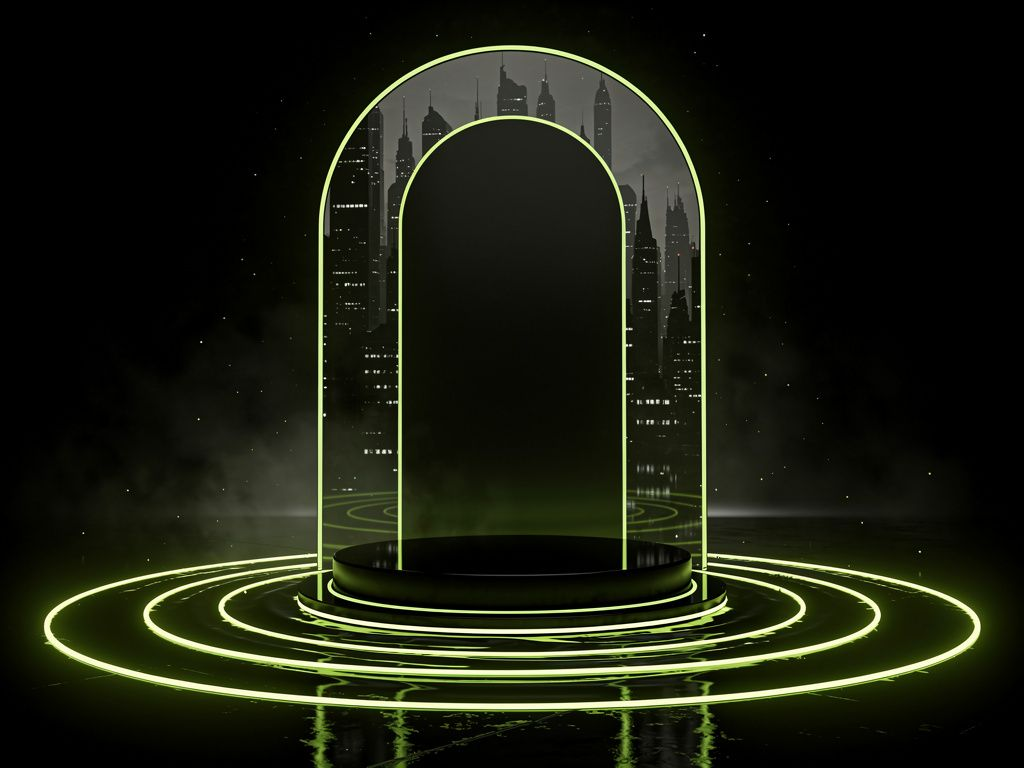
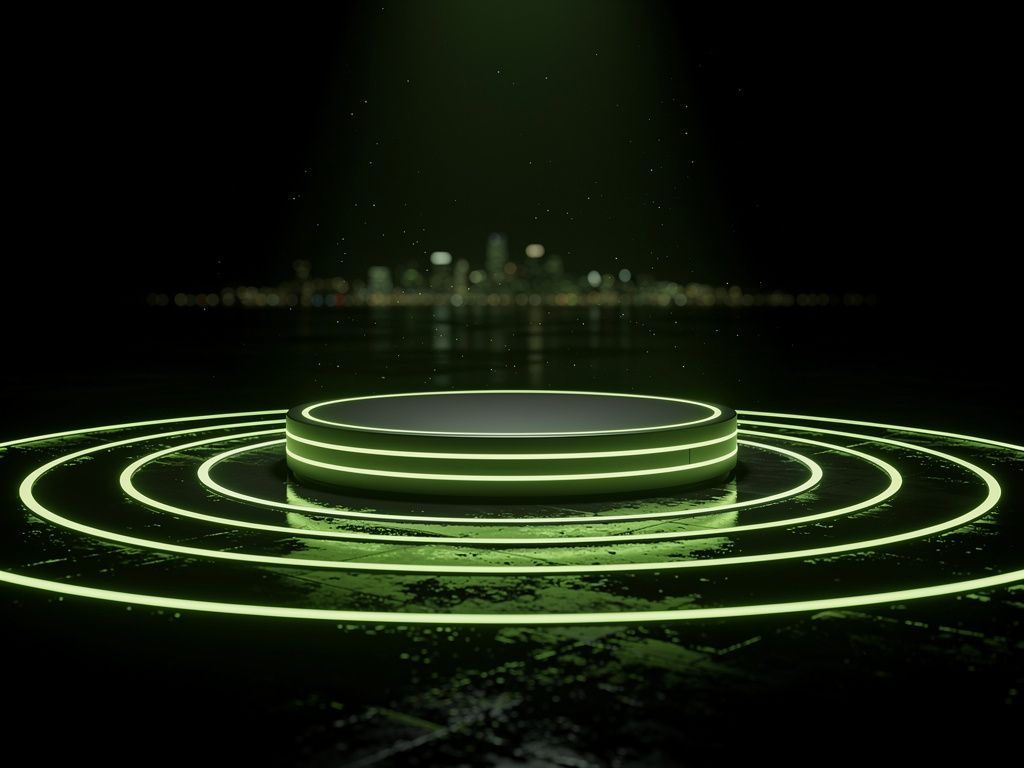
Hero: clean floating podium — drop the arch/box, dissolve edges into the page
Claude-Session: https://claude.ai/code/session_01Av8dxYcXkmhckKe2J4eSYU

diff --git a/pad/index.html b/pad/index.html
@@ -81,17 +81,17 @@ header.nav{position:sticky;top:0;z-index:50;background:rgba(6,8,3,.82);backdrop-
 /* composited emblem: Venice arch/city/podium plate + the real brand logo floating
    in the arch, energized by a slow-rotating light sweep. Edges dissolve into the page. */
 .hemblem{position:relative;aspect-ratio:1/1;
-  -webkit-mask-image:radial-gradient(128% 128% at 50% 47%,#000 76%,transparent 100%);
-  mask-image:radial-gradient(128% 128% at 50% 47%,#000 76%,transparent 100%)}
+  -webkit-mask-image:radial-gradient(closest-side,#000 62%,transparent 100%);
+  mask-image:radial-gradient(closest-side,#000 62%,transparent 100%)}
 .hemblem .hplate{position:absolute;inset:0;width:100%;height:100%;object-fit:cover;display:block}
 /* rotating conic light-sweep behind the logo, blurred into a glow */
-.hemblem .hglow{position:absolute;left:50%;top:36%;width:56%;aspect-ratio:1;border-radius:50%;
-  transform:translate(-50%,-50%);pointer-events:none;filter:blur(16px);opacity:.9;
-  background:conic-gradient(from 0deg,transparent 0 28%,rgba(220,233,5,.28) 42%,rgba(138,99,224,.14) 55%,transparent 70% 100%);
+.hemblem .hglow{position:absolute;left:50%;top:38%;width:50%;aspect-ratio:1;border-radius:50%;
+  transform:translate(-50%,-50%);pointer-events:none;filter:blur(18px);opacity:.85;
+  background:conic-gradient(from 0deg,transparent 0 28%,rgba(220,233,5,.26) 42%,rgba(138,99,224,.12) 55%,transparent 70% 100%);
   animation:hspin 11s linear infinite}
-/* the real logo — floats + glow pulse */
-.hemblem .hlogo{position:absolute;left:50%;top:36%;width:34%;transform:translate(-50%,-50%);
-  filter:drop-shadow(0 0 20px rgba(220,233,5,.55)) drop-shadow(0 8px 24px rgba(0,0,0,.55));
+/* the real logo — floats above the podium + glow pulse */
+.hemblem .hlogo{position:absolute;left:50%;top:38%;width:30%;transform:translate(-50%,-50%);
+  filter:drop-shadow(0 0 22px rgba(220,233,5,.5)) drop-shadow(0 10px 26px rgba(0,0,0,.55));
   animation:hfloat 5.5s ease-in-out infinite;will-change:transform}
 @keyframes hspin{to{transform:translate(-50%,-50%) rotate(360deg)}}
 @keyframes hfloat{0%,100%{transform:translate(-50%,-53%)}50%{transform:translate(-50%,-45%)}}